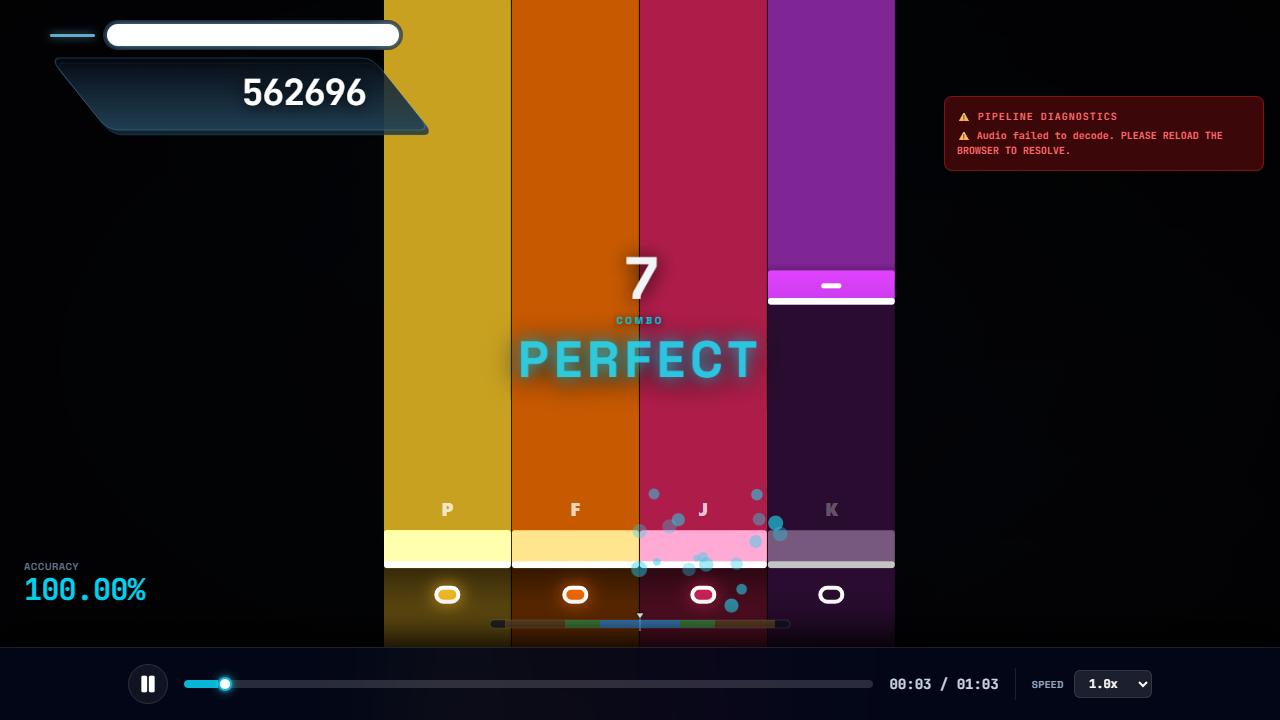
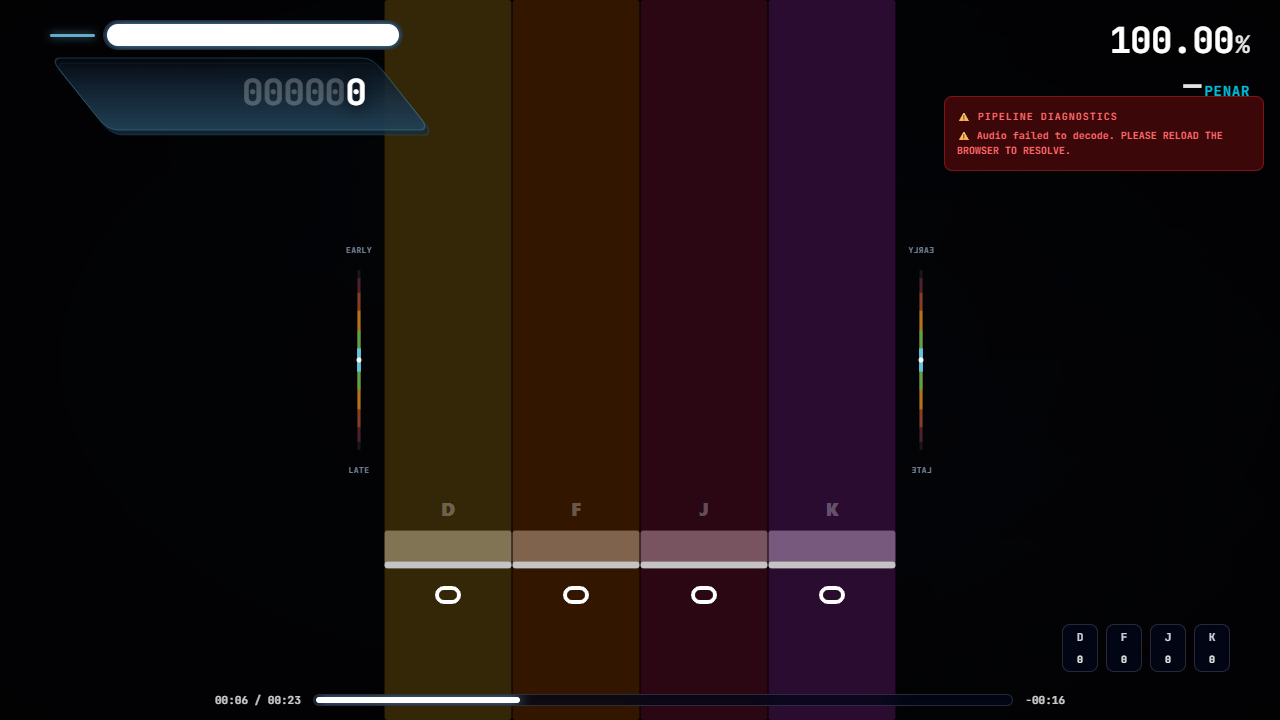
Add Argon song progress density histogram
Adds a rate-invariant 64-bin density histogram for map-time density, renders it behind the Argon progress pill, and threads the values through GameplayCanvas and ManiaHud. This also includes the shared histogram helper in argonSkin and regression tests covering the bin math and HUD rendering.

diff --git a/src/components/ManiaHud.tsx b/src/components/ManiaHud.tsx
@@ -27,6 +27,8 @@ export interface ManiaHudProps {
   isReplayMode?: boolean;
   isAutoplay?: boolean;
   progressBarRef?: React.Ref<HTMLDivElement>;
+  densityCanvasRef?: React.Ref<HTMLCanvasElement>;
+  densityBins?: Float32Array;
   timeLabelRef?: React.Ref<HTMLSpanElement>;
   timeLeftLabelRef?: React.Ref<HTMLSpanElement>;
   leftHitErrorCanvasRef?: React.Ref<HTMLCanvasElement>;
@@ -402,10 +404,53 @@ export const ArgonDualHitErrorMeters: React.FC<{
  */
 export const ArgonSongProgress: React.FC<{
   progressBarRef?: React.Ref<HTMLDivElement>;
+  densityCanvasRef?: React.Ref<HTMLCanvasElement>;
+  densityBins?: Float32Array;
   timeLabelRef?: React.Ref<HTMLSpanElement>;
   timeLeftLabelRef?: React.Ref<HTMLSpanElement>;
   className?: string;
-}> = ({ progressBarRef, timeLabelRef, timeLeftLabelRef, className = '' }) => {
+}> = ({ progressBarRef, densityCanvasRef, densityBins, timeLabelRef, timeLeftLabelRef, className = '' }) => {
+  const localCanvasRef = React.useRef<HTMLCanvasElement | null>(null);
+
+  const setMergedCanvasRef = React.useCallback(
+    (node: HTMLCanvasElement | null) => {
+      localCanvasRef.current = node;
+      if (typeof densityCanvasRef === 'function') {
+        densityCanvasRef(node);
+      } else if (densityCanvasRef && typeof densityCanvasRef === 'object') {
+        (densityCanvasRef as React.MutableRefObject<HTMLCanvasElement | null>).current = node;
+      }
+    },
+    [densityCanvasRef]
+  );
+
+  React.useEffect(() => {
+    const canvas = localCanvasRef.current;
+    if (!canvas) return;
+    const ctx = canvas.getContext('2d');
+    if (!ctx) return;
+
+    const w = canvas.width;
+    const h = canvas.height;
+    ctx.clearRect(0, 0, w, h);
+
+    if (!densityBins || densityBins.length === 0) return;
+
+    const binCount = densityBins.length;
+    const binWidth = w / binCount;
+
+    for (let i = 0; i < binCount; i++) {
+      const val = densityBins[i];
+      if (val <= 0) continue;
+      const barH = Math.max(1, val * h);
+      const x = i * binWidth;
+      const y = h - barH;
+
+      ctx.fillStyle = 'rgba(255, 255, 255, 0.45)';
+      ctx.fillRect(x, y, Math.max(1, binWidth - 0.5), barH);
+    }
+  }, [densityBins]);
+
   return (
     <div
       id="argon-song-progress"
@@ -419,11 +464,21 @@ export const ArgonSongProgress: React.FC<{
         0:00
       </span>
 
-      {/* Pill-shaped progress track */}
+      {/* Pill-shaped progress track with density histogram */}
       <div className="flex-1 h-[10px] sm:h-[12px] rounded-full bg-slate-950/75 border border-white/15 p-[2px] relative overflow-hidden backdrop-blur-sm shadow-inner">
+        {/* Background density histogram */}
+        <canvas
+          ref={setMergedCanvasRef}
+          width={256}
+          height={16}
+          className="absolute inset-0 w-full h-full pointer-events-none"
+          aria-hidden="true"
+        />
+
+        {/* Elapsed white fill with glowing accent border */}
         <div
           ref={progressBarRef}
-          className="h-full rounded-full bg-white shadow-[0_0_12px_rgba(126,215,253,0.9)] transition-none"
+          className="h-full rounded-full bg-white shadow-[0_0_12px_rgba(126,215,253,0.9)] transition-none relative z-10"
           style={{ width: '0%' }}
         />
       </div>
@@ -465,6 +520,8 @@ export const ManiaHud: React.FC<ManiaHudProps> = ({
   isReplayMode = false,
   isAutoplay = false,
   progressBarRef,
+  densityCanvasRef,
+  densityBins,
   timeLabelRef,
   timeLeftLabelRef,
   leftHitErrorCanvasRef,
@@ -536,6 +593,8 @@ export const ManiaHud: React.FC<ManiaHudProps> = ({
       {!isReplayMode && !isAutoplay && (
         <ArgonSongProgress
           progressBarRef={progressBarRef}
+          densityCanvasRef={densityCanvasRef}
+          densityBins={densityBins}
           timeLabelRef={timeLabelRef}
           timeLeftLabelRef={timeLeftLabelRef}
         />

diff --git a/tests/mania-hud.test.ts b/tests/mania-hud.test.ts
@@ -13,7 +13,9 @@
 import { describe, expect, it } from 'vitest';
 import React from 'react';
 import { renderToStaticMarkup } from 'react-dom/server';
-import { ManiaHud, ArgonHealthDisplay, ArgonScoreCounter, ArgonWedgePieces } from '../src/components/ManiaHud';
+import { ManiaHud, ArgonHealthDisplay, ArgonScoreCounter, ArgonWedgePieces, ArgonSongProgress } from '../src/components/ManiaHud';
+import { computeSongDensityBins, DENSITY_BIN_COUNT } from '../src/render/argonSkin';
+import type { HitObject } from '../src/types';
 
 describe('ManiaHud and Argon HUD components (TASK-052)', () => {
   it('renders ManiaHud with health display, wedges, and score counter', () => {
@@ -99,4 +101,73 @@ describe('ManiaHud and Argon HUD components (TASK-052)', () => {
     );
     expect(htmlReplay).toContain('REPLAY');
   });
+
+  it('TASK-V-052: computes 64 rate-invariant map-time density bins normalized to peak 1.0', () => {
+    // Empty notes returns 64 zeros
+    const emptyBins = computeSongDensityBins([]);
+    expect(emptyBins).toHaveLength(DENSITY_BIN_COUNT);
+    expect(Array.from(emptyBins).every((v) => v === 0)).toBe(true);
+
+    // Notes at distinct map times across 100,000ms duration
+    const testNotes: HitObject[] = [
+      { id: '1', time: 0, column: 0, type: 'normal', isHit: false, isReleased: false, isMissed: false, isHoldFailed: false },
+      { id: '2', time: 25000, column: 1, type: 'normal', isHit: false, isReleased: false, isMissed: false, isHoldFailed: false },
+      { id: '3', time: 50000, column: 2, type: 'hold', endTime: 55000, isHit: false, isReleased: false, isMissed: false, isHoldFailed: false },
+      { id: '4', time: 50000, column: 3, type: 'normal', isHit: false, isReleased: false, isMissed: false, isHoldFailed: false }, // two notes at 50,000ms (peak)
+      { id: '5', time: 99999, column: 0, type: 'normal', isHit: false, isReleased: false, isMissed: false, isHoldFailed: false },
+    ];
+    const bins = computeSongDensityBins(testNotes, 100000);
+    expect(bins).toHaveLength(64);
+
+    // Bin 0 (0ms) has 1 note -> 0.5
+    expect(bins[0]).toBe(0.5);
+    // Bin 16 (25000ms = 25% * 64 = 16) has 1 note -> 0.5
+    expect(bins[16]).toBe(0.5);
+    // Bin 32 (50000ms = 50% * 64 = 32) has 2 notes -> maxCount=2, normalized to 1.0
+    expect(bins[32]).toBe(1.0);
+    // Bin 63 (99999ms) has 1 note -> 0.5
+    expect(bins[63]).toBe(0.5);
+    // An empty bin
+    expect(bins[10]).toBe(0);
+  });
+
+  it('TASK-V-052: renders ArgonSongProgress with density histogram canvas and progress pill', () => {
+    const dummyBins = new Float32Array(64);
+    dummyBins[0] = 1.0;
+    dummyBins[32] = 0.5;
+
+    const html = renderToStaticMarkup(
+      React.createElement(ArgonSongProgress, {
+        densityBins: dummyBins,
+      })
+    );
+
+    expect(html).toContain('id="argon-song-progress"');
+    // Contains density histogram canvas
+    expect(html).toContain('<canvas');
+    expect(html).toContain('width="256"');
+    expect(html).toContain('height="16"');
+    // Contains elapsed and remaining time labels
+    expect(html).toContain('0:00');
+    expect(html).toContain('-0:00');
+  });
+
+  it('TASK-V-052: passes densityBins to ArgonSongProgress inside ManiaHud', () => {
+    const dummyBins = new Float32Array(64);
+    dummyBins[10] = 1.0;
+
+    const html = renderToStaticMarkup(
+      React.createElement(ManiaHud, {
+        score: 500000,
+        hp: 100,
+        densityBins: dummyBins,
+        isReplayMode: false,
+        isAutoplay: false,
+      })
+    );
+
+    expect(html).toContain('id="argon-song-progress"');
+    expect(html).toContain('<canvas');
+  });
 });
+

diff --git a/src/render/argonSkin.ts b/src/render/argonSkin.ts
@@ -12,12 +12,15 @@
 
 import { parseCssColor } from './color';
 import type { PlayfieldVisualSettings } from './types';
+import type { HitObject } from '../types';
 
 /** Recreated from osu!(lazer) `ArgonNotePiece` (osu-resources bitmaps are not used). */
 export const ARGON_NOTE_HEIGHT = 42;
 export const ARGON_NOTE_ACCENT_RATIO = 0.82;
 export const ARGON_CORNER_RADIUS = 3.4;
 export const ARGON_COLUMN_GAP = 1;
+
+export const DENSITY_BIN_COUNT = 64;
 
 export const ARGON_COLOUR_SPECIAL = '#a96aff';
 export const ARGON_COLOUR_YELLOW = '#ffc528';
@@ -95,3 +98,54 @@ export function argonLighten(color: string, amount: number): string {
   const factor = 1 + amount;
   return `rgb(${Math.min(255, Math.round(parsed.r * factor))},${Math.min(255, Math.round(parsed.g * factor))},${Math.min(255, Math.round(parsed.b * factor))})`;
 }
+
+/**
+ * Computes a rate-invariant 64-bin density histogram in map-time domain (TASK-V-052).
+ * - Each hit object contributes 1 count at its head time (`obj.time`).
+ * - Bin index: Math.floor((obj.time / audioDurationMs) * 64), clamped to 0..63.
+ * - Normalized so peak bin value equals 1.0 (empty map returns all zeros).
+ * - audioDurationMs: map audio duration in ms (unrated). If missing or <= 0, max(note time/endTime) is used.
+ */
+export function computeSongDensityBins(
+  notes: readonly HitObject[] | undefined,
+  audioDurationMs?: number,
+): Float32Array {
+  const bins = new Float32Array(DENSITY_BIN_COUNT);
+  if (!notes || notes.length === 0) {
+    return bins;
+  }
+
+  let effectiveDuration = audioDurationMs && audioDurationMs > 0 ? audioDurationMs : 0;
+  if (effectiveDuration <= 0) {
+    for (let i = 0; i < notes.length; i++) {
+      const n = notes[i];
+      const endTime = n.endTime !== undefined && n.endTime > n.time ? n.endTime : n.time;
+      if (endTime > effectiveDuration) {
+        effectiveDuration = endTime;
+      }
+    }
+  }
+
+  if (effectiveDuration <= 0) {
+    return bins;
+  }
+
+  let maxCount = 0;
+  for (let i = 0; i < notes.length; i++) {
+    const t = Math.max(0, notes[i].time);
+    const binIdx = Math.min(DENSITY_BIN_COUNT - 1, Math.max(0, Math.floor((t / effectiveDuration) * DENSITY_BIN_COUNT)));
+    bins[binIdx]++;
+    if (bins[binIdx] > maxCount) {
+      maxCount = bins[binIdx];
+    }
+  }
+
+  if (maxCount > 0) {
+    for (let b = 0; b < DENSITY_BIN_COUNT; b++) {
+      bins[b] /= maxCount;
+    }
+  }
+
+  return bins;
+}
+

diff --git a/src/components/GameplayCanvas.tsx b/src/components/GameplayCanvas.tsx
@@ -95,6 +95,7 @@ import { calculateScrollSpeedFactor, computeScrollTravelTimeMs, updateColumnsLay
 import { getColumnStyles } from '../render/laneLayout';
 import { getVisibleNotes } from '../render/noteVisibility';
 import { createScrollModel, ScrollModel } from '../render/scrollVelocity';
+import { computeSongDensityBins } from '../render/argonSkin';
 import { parseBeatmap } from '../utils/beatmapParser';
 import {
   BABYLON_PLAYFIELD_WIDTH_MAX,
@@ -448,6 +449,11 @@ export default function GameplayCanvas({
 
   const introSkippable = React.useMemo(() => isIntroSkippable(firstNoteTime, INTRO_SKIP_THRESHOLD_MS), [firstNoteTime]);
   const skipTargetMs = React.useMemo(() => computeSkipTargetMs(firstNoteTime, INTRO_SKIP_LEAD_IN_MS), [firstNoteTime]);
+
+  // TASK-V-052: Rate-invariant map-time 64-bin density histogram computed once per beatmap identity
+  const densityBins = React.useMemo(() => {
+    return computeSongDensityBins(beatmap.notes, (beatmap.duration || 0) * 1000);
+  }, [beatmap.id, beatmap.notes, beatmap.duration]);
 
   const replayData = React.useMemo(
     () => normalizeReplayFrames(replayRecord?.replayFrames, beatmap.keyCount),
@@ -3896,6 +3902,7 @@ export default function GameplayCanvas({
             isReplayMode={isReplayMode}
             isAutoplay={isAutoplay}
             progressBarRef={progressBarRef as React.Ref<HTMLDivElement>}
+            densityBins={densityBins}
             timeLabelRef={timeLabelRef}
             timeLeftLabelRef={timeLeftLabelRef}
             leftHitErrorCanvasRef={leftHitErrorCanvasRef}

diff --git a/plan.md b/plan.md
@@ -212,8 +212,8 @@ Pixel-perfect vs `osu.exe` is not required. Fail: wrong HUD corner, slab notes, 
 | **TASK-V-002** | optional / unstarted | Outfit only if later stills demand it (fonts stay Inter/Space Grotesk) | — |
 | **TASK-V-050** | **done** | Filled rice arrow (same `size` / `halfW` / `halfH` as `drawChevronDown`); 4K+7K+9K colour shots; **no table edits** | `playfield-4k` ~4 px |
 | **TASK-V-051** | **done** | Oval still-diff; optional taper; **lane dim** | holds + `argon-notes.png` |
-| **TASK-V-052** | pending | Density `Float32Array` length 64, map-time bins, one canvas in progress pill | `hud/argon-song-progress-*` |
-| **TASK-V-053** | pending | HUD still-diff only (combo/PENAR already shipped) | `hud/` |
+| **TASK-V-052** | **done** | Density `Float32Array` length 64, map-time bins, one canvas in progress pill | `hud/argon-song-progress-*` |
+| **TASK-V-053** | **done** | HUD still-diff only (combo/PENAR already shipped) | `hud/` |
 | **TASK-V-043** | pending | Visible **Exit**; do not rebuild pause stack | `pause/` |
 | **TASK-V-060** | pending | Decorative wedge 480–520px desktop; **no shear at 390×844**; axis-aligned controls | `song-select/v2*` |
 | **TASK-V-061** | pending | Footer chrome still-diff | v2 footer |
@@ -222,7 +222,7 @@ Pixel-perfect vs `osu.exe` is not required. Fail: wrong HUD corner, slab notes, 
 | **TASK-V-080** | pending | Menu still-diff; pulse already reduced-motion | `task080*` |
 | **TASK-V-090** | pending | Skins copy: 3D is not Argon SoT | SkinScreen |
 
-**Next visual task: TASK-V-052 (Argon song progress density histogram).**
+**Next visual task: TASK-V-043 (Pause Exit label) / TASK-V-060 (Song Select decorative wedge).**
 
 Density contract (do not invent another): bin `floor(t_map / audioDuration * 64)` clamped 0..63; one count per object at head time; compute once per beatmap identity; **do not** rebuild on DT/HT; elapsed clip uses playback clock.
 
